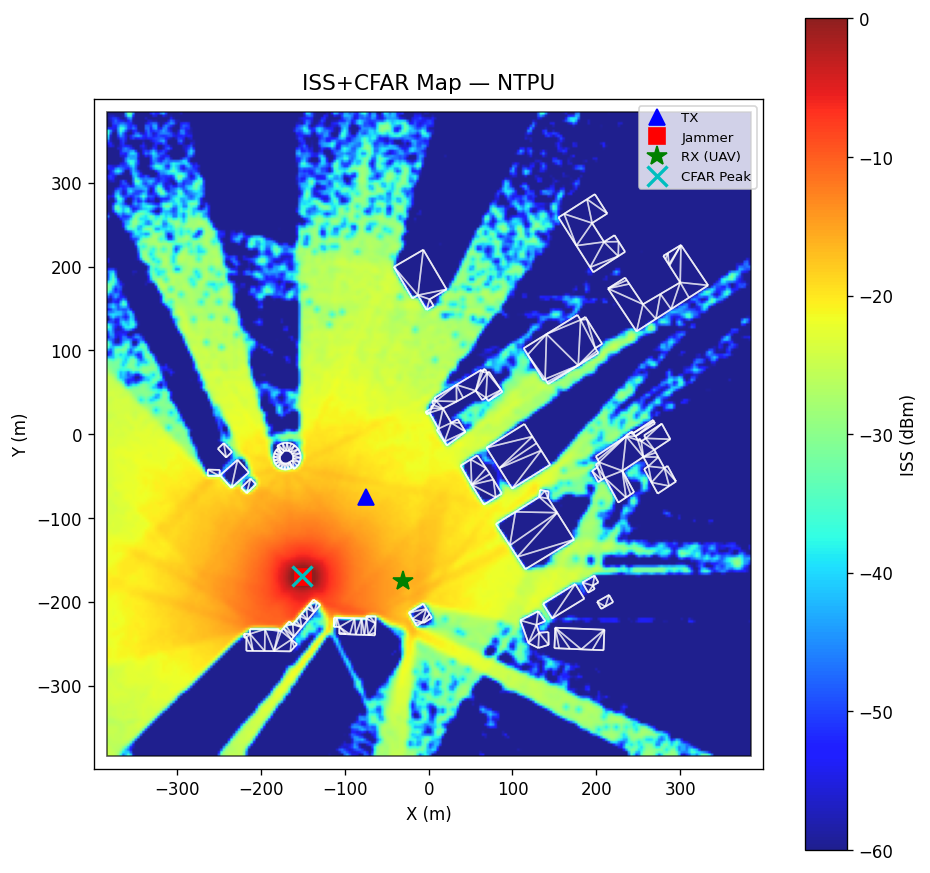
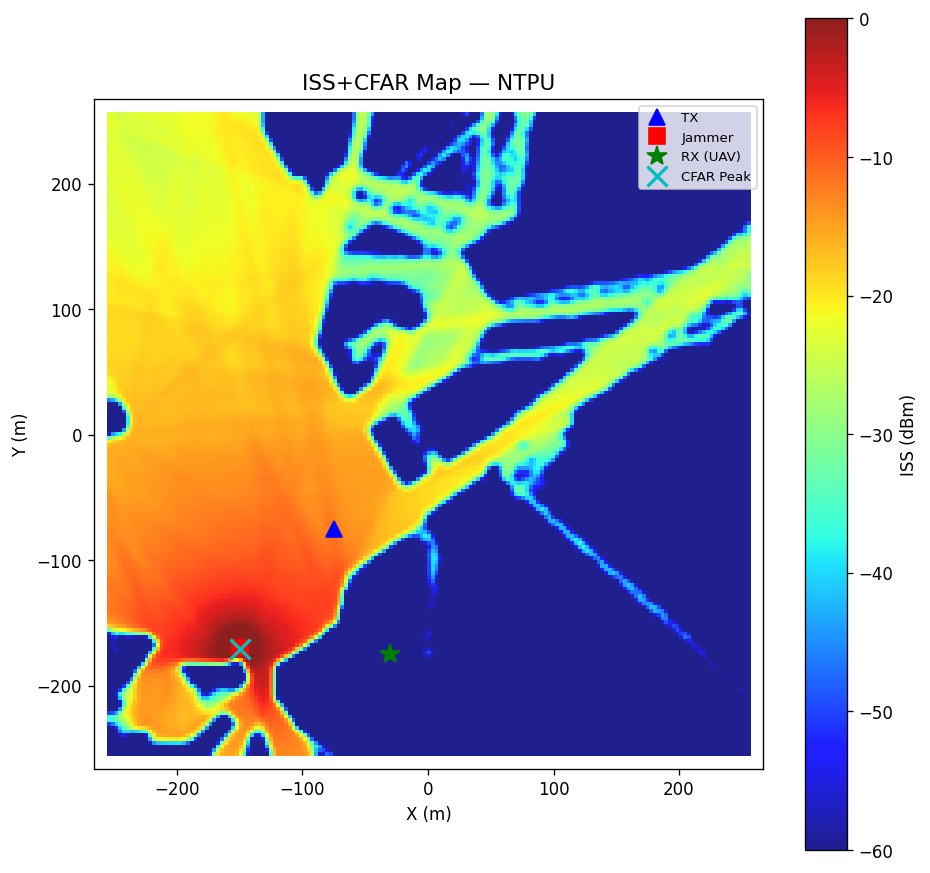
Fix UAV GPS sync and ISS_UNET defaults

diff --git a/frontend/src/components/ui/SimulationPanel.tsx b/frontend/src/components/ui/SimulationPanel.tsx
@@ -116,6 +116,23 @@ const ISS_UNET_RESOLUTION_OPTIONS: Array<{ value: ISSUNetPixelSizeM; label: stri
   { value: 4, label: '4 m/px (128)' },
 ];
 
+async function readHttpError(response: Response | undefined, fallback = 'HTTP Error') {
+  if (!response) return fallback;
+  const raw = await response.text().catch(() => '');
+  let detail = raw.trim();
+  if (detail) {
+    try {
+      const json = JSON.parse(detail) as { detail?: unknown; error?: unknown; missing_files?: unknown };
+      const message = json.detail ?? json.error;
+      const missing = Array.isArray(json.missing_files) ? `: ${json.missing_files.join(', ')}` : '';
+      detail = `${message ? String(message) : fallback}${missing}`;
+    } catch (_) {
+      detail = detail.slice(0, 300);
+    }
+  }
+  return `${response.status} ${response.statusText || fallback}${detail ? ` - ${detail}` : ''}`;
+}
+
 interface SimulationPanelProps {
   sceneId?: string | null;
   generatedScene?: boolean;
@@ -167,7 +184,7 @@ export function SimulationPanel({
     sinr_vmin: -20,
     sinr_vmax: 40,
     cell_size: 3.0,
-    samples_per_tx: 100000000,
+    samples_per_tx: 1000000,
   });
   const [issUnetParams, setIssUnetParams] = useState<ISSUNetParams>({
     mode: 'sim',
@@ -379,9 +396,7 @@ export function SimulationPanel({
       }
 
       if (!res || !res.ok) {
-        const json = res ? await res.json().catch(() => ({ error: 'HTTP Error' })) : { error: 'Unknown Error' };
-        const missing = Array.isArray(json.missing_files) ? `: ${json.missing_files.join(', ')}` : '';
-        throw new Error(`${json.detail || json.error || 'HTTP Error'}${missing}`);
+        throw new Error(await readHttpError(res, 'Simulation request failed'));
       }
 
       let url: string;
@@ -492,8 +507,7 @@ export function SimulationPanel({
         body: form,
       });
       if (!res.ok) {
-        const json = await res.json().catch(() => ({ error: 'HTTP Error' }));
-        throw new Error(json.detail || json.error || 'HTTP Error');
+        throw new Error(await readHttpError(res, 'Statistics request failed'));
       }
       const json = await res.json();
       const imagePath = json.images?.statistics;
@@ -602,8 +616,8 @@ export function SimulationPanel({
                   >
                     <option value={500000}>500K (less)</option>
                     <option value={1000000}>1M (medium)</option>
-                    <option value={100000000}>100M (recommend)</option>
-                    <option value={1000000000}>1B (more)</option>
+                    <option value={100000000}>100M (slower)</option>
+                    <option value={1000000000}>1B (very slow)</option>
                   </select>
                   {['sinr', 'iss', 'tss', 'cfar'].includes(tab) && (
                     <>

diff --git a/frontend/src/components/ui/USRPTelemetry.tsx b/frontend/src/components/ui/USRPTelemetry.tsx
@@ -262,7 +262,11 @@ async function readCaptureResponse(response: Response, fallback: string): Promis
   return data as Partial<CaptureStatus>;
 }
 
-export function USRPTelemetry() {
+interface USRPTelemetryProps {
+  sceneId?: string | null;
+}
+
+export function USRPTelemetry({ sceneId = 'NTPU' }: USRPTelemetryProps) {
   const [mode, setMode] = useState<SamplingMode>('test');
   const [bind, setBind] = useState(false);
   const [status, setStatus] = useState<CaptureStatus | null>(null);
@@ -282,7 +286,7 @@ export function USRPTelemetry() {
 
   const loadStatus = useCallback(async () => {
     const controller = new AbortController();
-    const timeout = window.setTimeout(() => controller.abort(), 10000);
+    const timeout = window.setTimeout(() => controller.abort(), 25000);
     try {
       const response = await fetch(`${API}/api/capture/status?usrp_mode=${mode}`, { signal: controller.signal });
       const data = await readCaptureResponse(response, 'Status request failed');
@@ -339,8 +343,8 @@ export function USRPTelemetry() {
   }, [applyStatus]);
 
   const startBody = useMemo(
-    () => ({ usrp_mode: mode, scene: 'NTPU', map_type: 'iss' }),
-    [mode],
+    () => ({ usrp_mode: mode, scene: sceneId ?? 'NTPU', map_type: 'iss' }),
+    [mode, sceneId],
   );
   const uav = status?.uav ?? EMPTY_CHILD;
   const usrp = status?.usrp ?? EMPTY_CHILD;
@@ -349,6 +353,7 @@ export function USRPTelemetry() {
   const usrpMissionId = usrp.mission_id || missionId;
   const anyActive = isActive(uav.service) || isActive(usrp.service);
   const bothReady = uav.connection === 'ready' && usrp.connection === 'ready';
+  const canStartUav = !bind && !busy && !isActive(uav.service) && (uav.connection === 'ready' || uav.service === 'failed');
   const disabledStyle = (disabled: boolean) => ({ opacity: disabled ? 0.45 : 1 });
 
   const childSection = (
@@ -412,8 +417,8 @@ export function USRPTelemetry() {
           <div style={S.actions}>
             <button
               type="button"
-              style={{ ...S.button, ...disabledStyle(bind || busy || isActive(uav.service) || uav.connection !== 'ready') }}
-              disabled={bind || busy || isActive(uav.service) || uav.connection !== 'ready'}
+              style={{ ...S.button, ...disabledStyle(!canStartUav) }}
+              disabled={!canStartUav}
               onClick={() => void request('/api/capture/uav/start')}
             >
               Start UAV

diff --git a/frontend/src/App.tsx b/frontend/src/App.tsx
@@ -500,7 +500,7 @@ export function App() {
             onToggleAnimation={() => setUavAnimation(prev => !prev)}
             onManualControl={handleManualControl}
           />
-          <USRPTelemetry />
+          <USRPTelemetry sceneId={simulationSceneId} />
         </>
       )}
       right={!isMobile && (

diff --git a/backend/app/iss_unet_service.py b/backend/app/iss_unet_service.py
@@ -1,6 +1,7 @@
 import io
 import json
 import logging
+import os
 import re
 from dataclasses import dataclass
 from pathlib import Path
@@ -49,7 +50,7 @@ BUILDING_MAX_M = 60.0
 NOISE_CONFIDENCE_SIGMA_PX = 8.0
 DEFAULT_SCENE_AREA_M = 512.0
 LIVE_MAP_CELL_SIZE = 4.0
-LIVE_MAP_SAMPLES_PER_TX = 100000000
+LIVE_MAP_SAMPLES_PER_TX = int(os.environ.get("ISS_UNET_LIVE_MAP_SAMPLES_PER_TX", "1000000"))
 ISS_UNET_MODE_LABELS = {
     "sim": "Sim",
     "gps": "GPS",
@@ -664,6 +665,52 @@ def _run_gpsn_unet(
     return _denormalize_gpsn_rss(prediction).astype(np.float32)
 
 
+def _reconstruct_gpsn_without_model(
+    sparse_values_dbm: np.ndarray,
+    sparse_mask: np.ndarray,
+    building_map: np.ndarray,
+) -> np.ndarray:
+    """Deterministic IDW fallback for GPS_N when the trained checkpoint is absent."""
+    if sparse_values_dbm.shape != sparse_mask.shape or sparse_values_dbm.shape != building_map.shape:
+        raise ValueError("sparse_values_dbm, sparse_mask, and building_map must have the same shape")
+
+    sample_rows, sample_cols = np.where(sparse_mask > 0.5)
+    sample_values = sparse_values_dbm[sample_rows, sample_cols].astype(np.float32)
+    valid = np.isfinite(sample_values)
+    sample_rows = sample_rows[valid].astype(np.float32)
+    sample_cols = sample_cols[valid].astype(np.float32)
+    sample_values = sample_values[valid]
+
+    fallback = np.full_like(sparse_values_dbm, GPSN_RSS_MIN_DBM, dtype=np.float32)
+    outdoor = building_map <= 3.0
+    if len(sample_values) == 0:
+        fallback[outdoor] = ISS_MIN_DBM
+        return _clip_radio_map(fallback)
+
+    rows, cols = np.indices(sparse_values_dbm.shape, dtype=np.float32)
+    out = np.empty(sparse_values_dbm.size, dtype=np.float32)
+    flat_rows = rows.ravel()
+    flat_cols = cols.ravel()
+    chunk_size = 4096
+    for start in range(0, len(out), chunk_size):
+        end = min(start + chunk_size, len(out))
+        dr = flat_rows[start:end, None] - sample_rows[None, :]
+        dc = flat_cols[start:end, None] - sample_cols[None, :]
+        dist2 = dr * dr + dc * dc
+        exact = dist2 <= 1e-6
+        weights = 1.0 / np.maximum(dist2, 1.0)
+        values = (weights * sample_values[None, :]).sum(axis=1) / weights.sum(axis=1)
+        if exact.any():
+            exact_rows, exact_cols = np.where(exact)
+            values[exact_rows] = sample_values[exact_cols]
+        out[start:end] = values.astype(np.float32)
+
+    reconstructed = out.reshape(sparse_values_dbm.shape)
+    reconstructed[~outdoor] = GPSN_RSS_MIN_DBM
+    reconstructed[sparse_mask > 0.5] = sparse_values_dbm[sparse_mask > 0.5]
+    return _clip_radio_map(reconstructed)
+
+
 def _render_reconstructed_png(reconstructed_iss: np.ndarray, mode_label: str = "Sim") -> bytes:
     fig, ax = plt.subplots(figsize=(5, 5))
     im = ax.imshow(
@@ -925,9 +972,12 @@ def _build_iss_unet_artifacts(
     dataset = resolve_scene_dataset(scene, scene_dir=scene_dir, pixel_size_m=pixel_size_m)
     if not dataset.available:
         raise FileNotFoundError(json.dumps({"scene": dataset.scene, "missing_files": dataset.missing_files}))
-    if mode == "gps_n" and not GPSN_MODEL_ARTIFACT_PATH.exists():
-        logger.error(f"GPS_N model artifact not found at: {GPSN_MODEL_ARTIFACT_PATH}")
-        raise FileNotFoundError("GPS_N model artifact not found on the server. Please check the backend configuration.")
+    gpsn_model_available = GPSN_MODEL_ARTIFACT_PATH.exists()
+    if mode == "gps_n" and not gpsn_model_available:
+        logger.warning(
+            "GPS_N model artifact not found at %s; using deterministic sparse interpolation fallback",
+            GPSN_MODEL_ARTIFACT_PATH,
+        )
 
     arrays = load_scene_arrays(dataset)
     normalized_devices = _normalize_live_devices(devices)
@@ -989,13 +1039,22 @@ def _build_iss_unet_artifacts(
     else:
         if sparse_values_dbm is None:
             raise RuntimeError("gps_n sparse values are required for UNet inference")
-        reconstructed_iss = _run_gpsn_unet(
-            sparse_values_dbm=sparse_values_dbm,
-            sparse_mask=sparse_mask,
-            building_map=arrays["building"],
-            device=device,
-        )
-        model_inference = True
+        if gpsn_model_available:
+            reconstructed_iss = _run_gpsn_unet(
+                sparse_values_dbm=sparse_values_dbm,
+                sparse_mask=sparse_mask,
+                building_map=arrays["building"],
+                device=device,
+            )
+            model_inference = True
+        else:
+            reconstructed_iss = _reconstruct_gpsn_without_model(
+                sparse_values_dbm=sparse_values_dbm,
+                sparse_mask=sparse_mask,
+                building_map=arrays["building"],
+            )
+            real_metrics["gpsn_model_fallback"] = True
+            real_metrics["gpsn_model_missing"] = str(GPSN_MODEL_ARTIFACT_PATH)
 
     confidence_metrics = _empty_confidence_stats(applied=False)
 

diff --git a/backend/tests/test_iss_unet_service.py b/backend/tests/test_iss_unet_service.py
@@ -1621,7 +1621,7 @@ class ISSUNetServiceTests(unittest.TestCase):
             "power_dbm": 77.0,
         }])
         self.assertEqual(captured["cell_size"], 4.0)
-        self.assertEqual(captured["samples_per_tx"], 100000000)
+        self.assertEqual(captured["samples_per_tx"], 1000000)
         self.assertEqual(captured["target_shape"], (128, 128))
         self.assertEqual(captured["area_m"], 512.0)
         np.testing.assert_allclose(reconstructed, live_iss)
@@ -1749,25 +1749,30 @@ class ISSUNetServiceTests(unittest.TestCase):
 
                 return torch.full((1, 1, 128, 128), 0.5, dtype=torch.float32, device=tensor.device)
 
+        gpsn_model_path = self.artifact_dir / "unet_single" / "best_model.pt"
+        gpsn_model_path.parent.mkdir(parents=True, exist_ok=True)
+        gpsn_model_path.write_bytes(b"model")
+
         with patch("app.iss_unet_service.SCENE_DIR", self.scene_dir):
             with patch("app.iss_unet_service.OUTPUT_DIR", self.output_dir):
                 with patch("app.iss_real.create_route_sparse_sample", return_value=route_sample):
-                    with patch(
-                        "app.iss_unet_service._load_model",
-                        side_effect=AssertionError("legacy UNet should not load for gps_n"),
-                    ):
+                    with patch("app.iss_unet_service.GPSN_MODEL_ARTIFACT_PATH", gpsn_model_path):
                         with patch(
-                            "app.iss_unet_service._load_gpsn_model",
-                            return_value=(FakeModel(), "cpu"),
-                            create=True,
+                            "app.iss_unet_service._load_model",
+                            side_effect=AssertionError("legacy UNet should not load for gps_n"),
                         ):
-                            with patch("app.iss_unet_service._render_reconstructed_png", return_value=b"reconstructed"):
-                                with patch("app.iss_unet_service._render_comparison_png", return_value=b"comparison"):
-                                    result = reconstruct_iss_unet(
-                                        scene="NTPU",
-                                        mode="gps_n",
-                                        cfar=ISSUNetCFARParams(enabled=False),
-                                    )
+                            with patch(
+                                "app.iss_unet_service._load_gpsn_model",
+                                return_value=(FakeModel(), "cpu"),
+                                create=True,
+                            ):
+                                with patch("app.iss_unet_service._render_reconstructed_png", return_value=b"reconstructed"):
+                                    with patch("app.iss_unet_service._render_comparison_png", return_value=b"comparison"):
+                                        result = reconstruct_iss_unet(
+                                            scene="NTPU",
+                                            mode="gps_n",
+                                            cfar=ISSUNetCFARParams(enabled=False),
+                                        )
 
         self.assertEqual(result["mode"], "gps_n")
         self.assertTrue(result["metrics"]["model_inference"])

diff --git a/backend/app/main.py b/backend/app/main.py
@@ -1894,7 +1894,7 @@ class SINRMapRequest(BaseSionnaRequest):
     sinr_vmin: float = Field(default=-20.0)
     sinr_vmax: float = Field(default=40.0)
     cell_size: float = Field(default=2.0)
-    samples_per_tx: int = Field(default=100000000)
+    samples_per_tx: int = Field(default=1000000)
 
 
 class CaptureStartRequest(BaseModel):
@@ -3000,7 +3000,7 @@ class SimulateRequest(BaseModel):
     scene: str
     map_type: str
     cell_size: float = Field(default=4.0, gt=0)
-    samples_per_tx: int = Field(default=100000000, ge=10000)
+    samples_per_tx: int = Field(default=1000000, ge=10000)
     sinr_vmin: float = Field(default=-20.0)
     sinr_vmax: float = Field(default=40.0)
     overlay_scene: bool = Field(default=False)
@@ -3013,6 +3013,11 @@ async def simulate(req: SimulateRequest):
 
     output_dir = str(BASE_DIR / "static" / "maps" / scene_xml.parent.name.lower())
     os.makedirs(output_dir, exist_ok=True)
+
+    if not any(d.role == "rx" for d in req.devices):
+        raise HTTPException(status_code=422, detail="At least one RX device is required.")
+    if req.map_type == "sinr" and not any(d.role == "tx" for d in req.devices):
+        raise HTTPException(status_code=422, detail="At least one TX device is required for a SINR map.")
 
     devices_dicts = []
     for d in req.devices:

diff --git a/backend/app/iss_real.py b/backend/app/iss_real.py
@@ -3,7 +3,7 @@ import io
 import json
 import math
 from dataclasses import dataclass, field, replace
-from datetime import datetime, timezone
+from datetime import datetime, timedelta, timezone
 from pathlib import Path
 from typing import Any, Iterable, TextIO
 
@@ -24,6 +24,7 @@ BASE_DIR = Path(__file__).parent
 SAMPLE_DIR = BASE_DIR / "sample"
 SAMPLE_GPS_PATH = SAMPLE_DIR / "gps.csv"
 SAMPLE_NOISE_PATH = SAMPLE_DIR / "noise.csv"
+CSV_LOCAL_TIMEZONE = timezone(timedelta(hours=8))
 
 @dataclass(frozen=True)
 class GPSPoint:
@@ -94,7 +95,7 @@ def _parse_time(value: str) -> datetime:
         text = f"{text[:-1]}+00:00"
     dt = datetime.fromisoformat(text)
     if dt.tzinfo is None:
-        dt = dt.replace(tzinfo=timezone.utc)
+        dt = dt.replace(tzinfo=CSV_LOCAL_TIMEZONE)
     return dt.astimezone(timezone.utc)
 
 

diff --git a/tools/ap3_to_gps_csv.py b/tools/ap3_to_gps_csv.py
@@ -121,7 +121,11 @@ class GpsSyncClient:
         request = urllib.request.Request(
             self.api_url,
             data=body,
-            headers={"Content-Type": "application/json"},
+            headers={
+                "Content-Type": "application/json",
+                "Accept": "application/json",
+                "User-Agent": "integrated-simworld-gps-sync/1.0",
+            },
             method="POST",
         )
         try:
